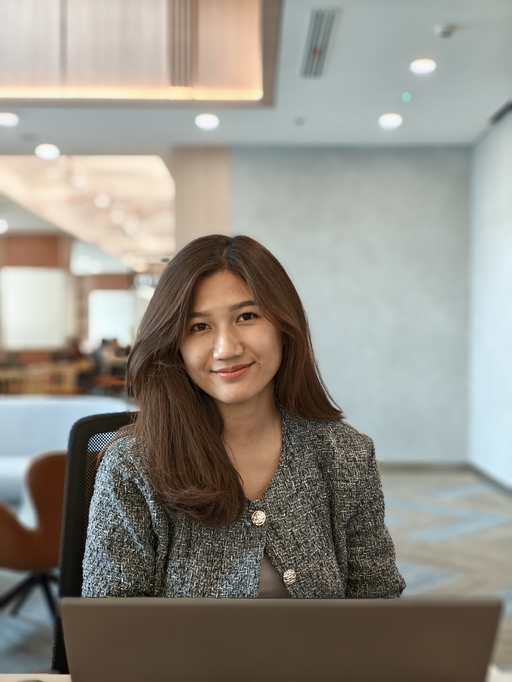
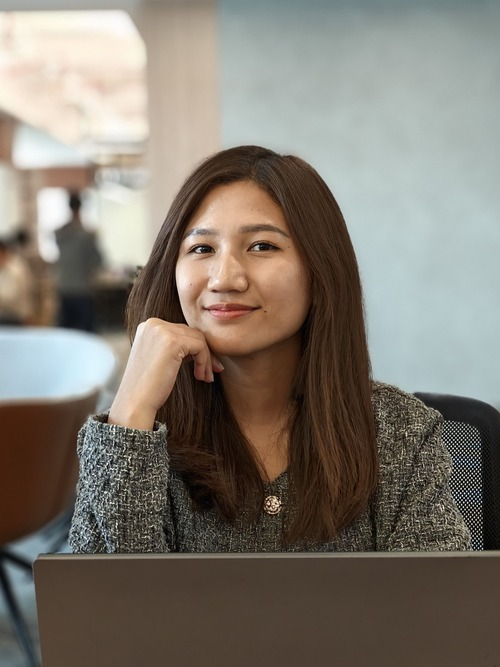
replace profile picture and modify ui for AboutMe

diff --git a/wwwroot/css/home.css b/wwwroot/css/home.css
@@ -100,7 +100,7 @@
 .aboutme-title {
     font-style: italic;
     color: var(--brown);
-    font-size: 72pt;
+    font-size: 65pt;
     margin-bottom: 10px;
 }
 
@@ -109,8 +109,8 @@
 }
 
 .aboutme-img img {
-    width: 500px;
-    height: 550px;
+    width: 400px;
+    height: 450px;
     object-fit: contain;
     border-radius: 47% 47% 0 0;
 }
@@ -122,10 +122,10 @@
 
 .aboutme-mark {
     position: absolute;
-    top: 103%;
-    left: 9.4%;
+    top: 107.5%;
+    left: 9.7%;
     transform: translateY(100%);
-    width: 14.7%;
+    width: 13%;
 }
 
 /* SKILLS */

diff --git a/README.md b/README.md
@@ -16,3 +16,4 @@ Design by freepik
 <a href="https://www.flaticon.com/free-icons/student" title="student icons">Student icons created by Freepik - Flaticon</a>
 <a href="https://www.flaticon.com/free-icons/jquery" title="jquery icons">Jquery icons created by agustrisana - Flaticon</a>
 <a href="https://www.flaticon.com/free-icons/letter-m" title="letter m icons">Letter m icons created by Rohim - Flaticon</a>
+<a href="https://www.flaticon.com/free-icons/detail-oriented" title="detail oriented icons">Detail oriented icons created by blinixsolutions - Flaticon</a>
